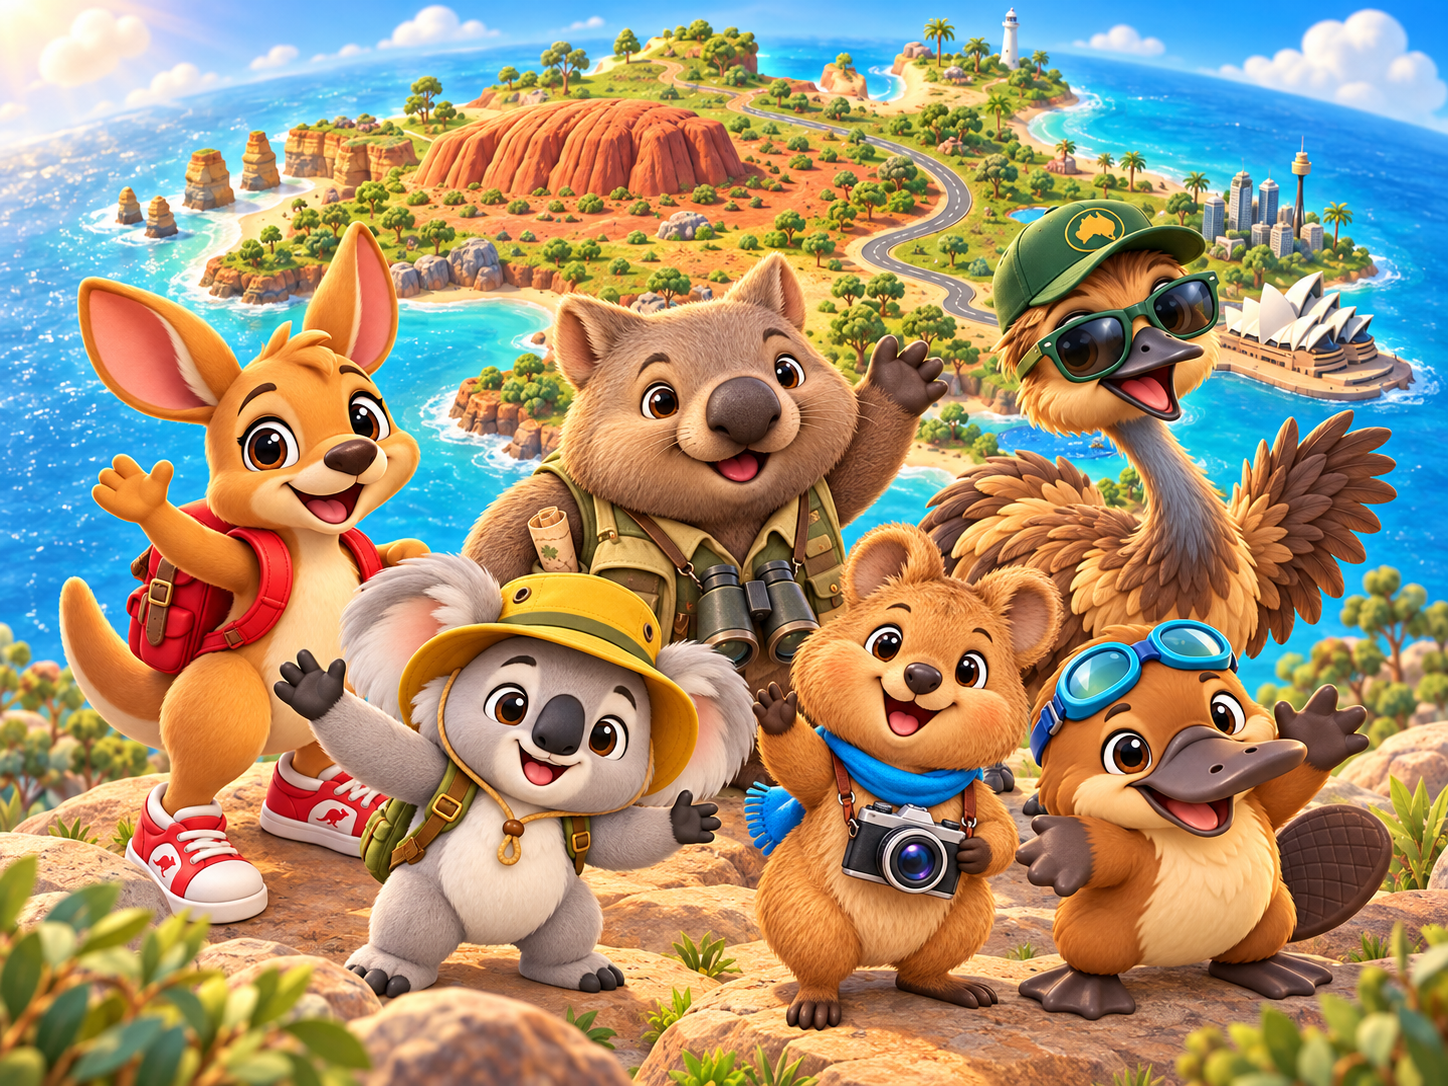
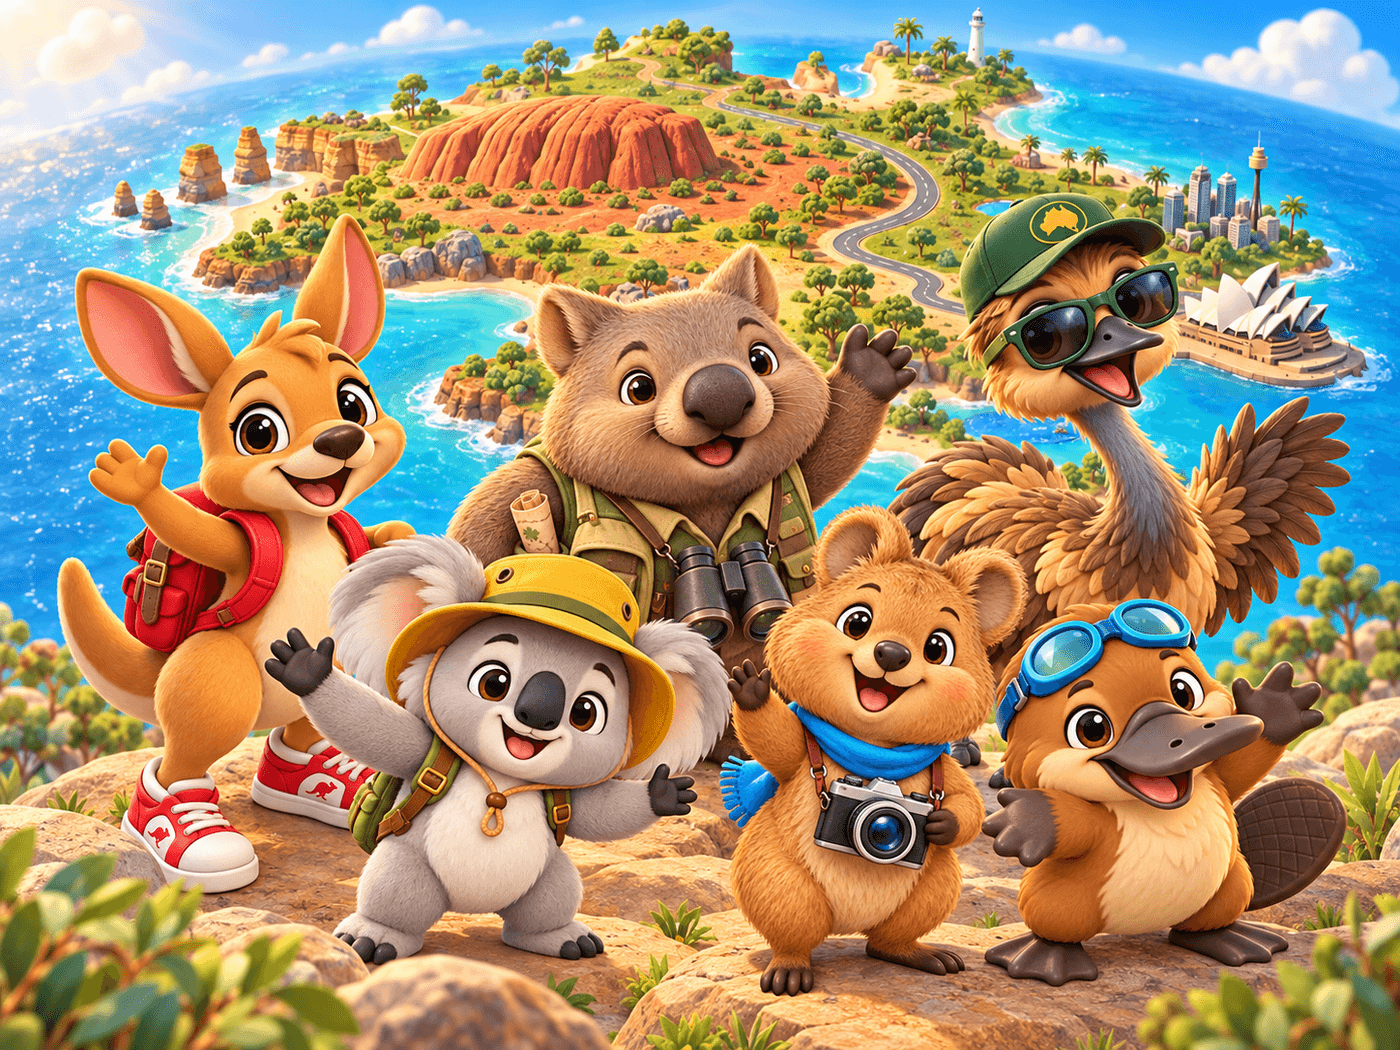
Use the new home picture, shopkeepers, scooter, car, boats and whales
Claude-Session: https://claude.ai/code/session_01Rwa9rr1wkNpCckJ3ziM2fg

diff --git a/src/map/sceneSvg.ts b/src/map/sceneSvg.ts
@@ -262,6 +262,20 @@ export function staticSvg(): string {
   }
   const items = scenery().sort((a, b) => a[0] - b[0]);
   out.push(...items.map((i) => i[1]));
+  // boats and whales out at sea
+  const SEA: [string, LonLat, number][] = [
+    ['prop-boat', [156.2, -31.0], 120],
+    ['prop-boat', [111.6, -27.0], 110],
+    ['prop-boat', [126.4, -13.0], 100],
+    ['prop-boat', [141.6, -40.6], 100],
+    ['prop-whale', [157.0, -36.5], 150],
+    ['prop-whale', [112.0, -35.2], 140],
+    ['prop-whale', [131.0, -35.6], 130],
+  ];
+  for (const [name, at, w] of SEA) {
+    const [x, y] = lonLatToWorld(at);
+    out.push(sprite(name, x, y, w, w * 0.1));
+  }
   for (const [a, b] of FLIGHTS) out.push(flightPath(ROADS[a], ROADS[b]));
   const STATES: [string, LonLat][] = [['WESTERN AUSTRALIA', [121.5, -25.5]], ['NORTHERN TERRITORY', [133.5, -19.5]], ['SOUTH AUSTRALIA', [134.5, -29.6]], ['QUEENSLAND', [144.5, -22.5]], ['NEW SOUTH WALES', [146.2, -30.9]], ['VICTORIA', [143.6, -37.0]], ['TASMANIA', [150.6, -43.6]], ['ACT', [149.3, -35.9]]];
   for (const [name, at] of STATES) {

diff --git a/src/ui/panels.tsx b/src/ui/panels.tsx
@@ -154,7 +154,7 @@ export function Shop({ state, kind, dispatch }: { state: GameState; kind: 'card'
   const p = state.players[state.current];
   const ids = kind === 'card' ? CARD_IDS : ITEM_IDS;
   useEffect(() => sfx('shop'), []);
-  const keeper = kind === 'card' ? { name: 'Koala Kate', pic: 'koala-card', line: `G'day, ${p.name}! Pick a card.` } : { name: 'Tess the Turtle', pic: 'turtle-card', line: `Need a ride, ${p.name}? Scooters are popular!` };
+  const keeper = kind === 'card' ? { name: 'Koala Kate', pic: 'shopkeeper-card', line: `G'day, ${p.name}! Pick a card.` } : { name: 'Tess the Turtle', pic: 'shopkeeper-item', line: `Need a ride, ${p.name}? Scooters are popular!` };
   return (
     <div className={`shop shop--${kind}`} role="dialog" aria-label={kind === 'card' ? 'Card Shop' : 'Item Shop'}>
       <div className="shop__awning" aria-hidden="true" />

diff --git a/src/styles.css b/src/styles.css
@@ -331,9 +331,10 @@ p {
 @media (max-width: 820px) {
   .home {
     grid-template-columns: 1fr;
+    align-content: center;
   }
-  .home__art {
-    display: none;
+  .home__art img {
+    max-height: 42vh;
   }
   .home__panel {
     width: min(460px, 100%);

diff --git a/README.md b/README.md
@@ -25,8 +25,6 @@ The map and pieces use the PNG files in `public/art/`. Upload new or replacement
 pictures there with the same names. `npm run build` shrinks them automatically
 (`scripts/optimize-art.mjs`), so large originals are fine.
 
-Still to come (the game works without them): `prop-boat`, `prop-whale`,
-`vehicle-scooter`, `vehicle-car`, `shopkeeper-card`, `shopkeeper-item`, `home`.
 
 ## Sound
 
